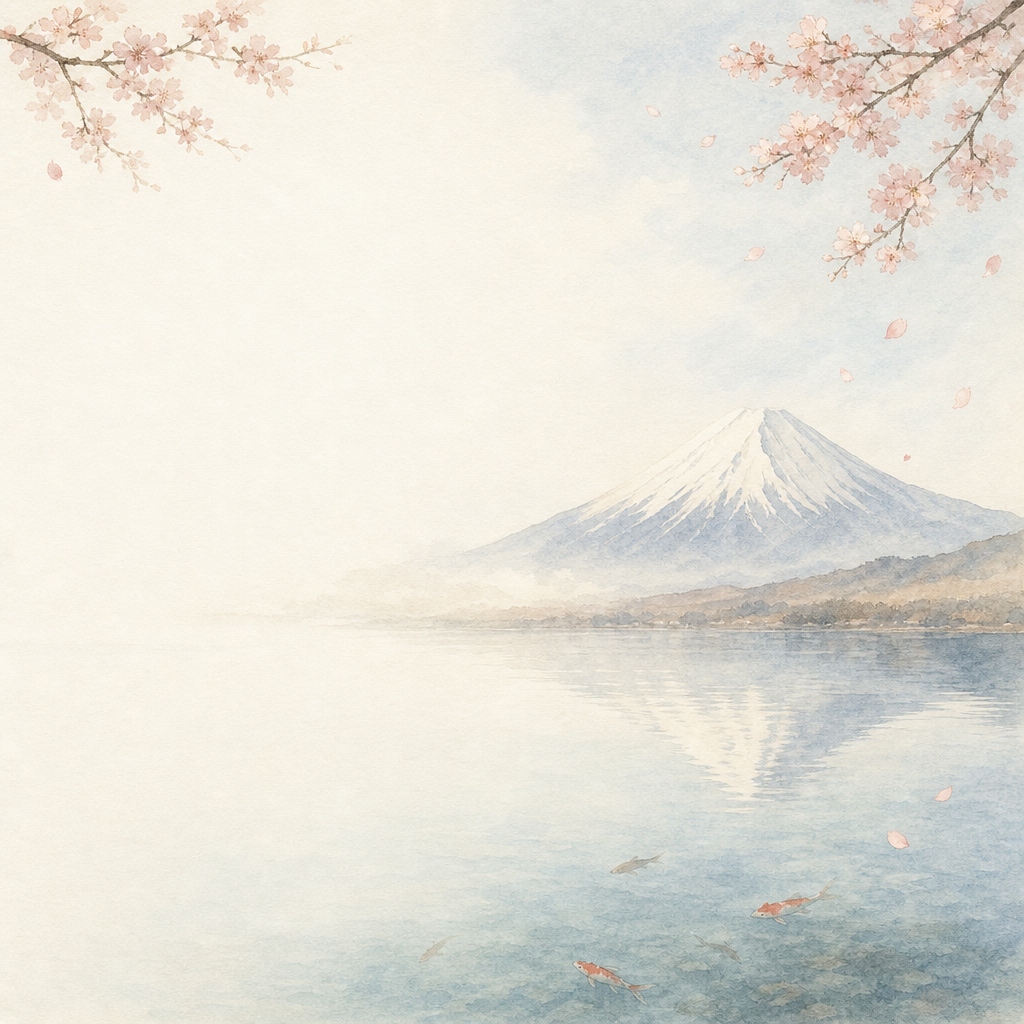
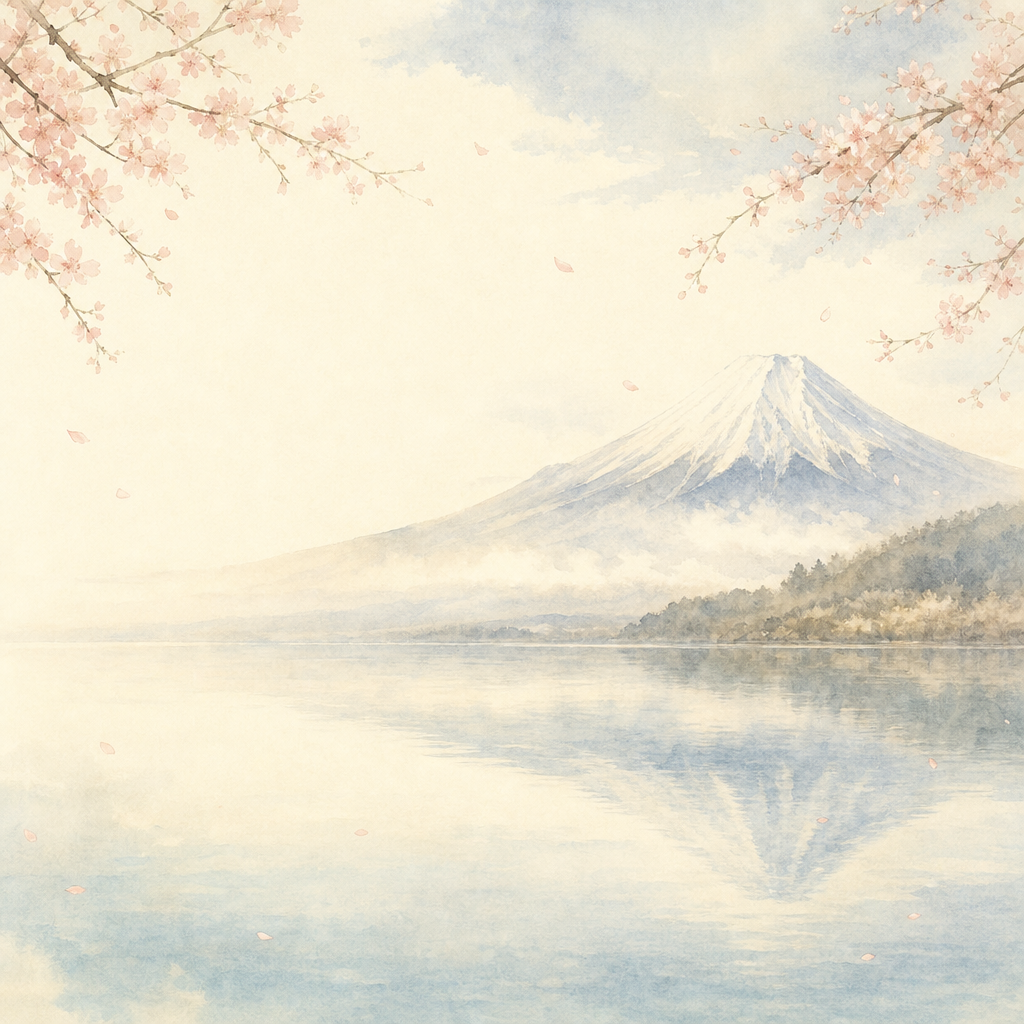
Regenerate no-fish Fuji background and animate petals, ripples, swan sprite

diff --git a/assets/scene-effects.js b/assets/scene-effects.js
@@ -1,8 +1,8 @@
 /* ============================================================
-   Subtle Fuji/Yamanakako scene effects
-   - single cherry blossom petals drifting down
-   - lake ripples expanding on the right/lower half
-   - a small watercolor-like swan swimming slowly
+   Fuji/Yamanakako scene effects
+   - single cherry blossom petals drift down
+   - petals create small ripples when they touch the lake
+   - watercolor swan sprite swims slowly across the lake
    ============================================================ */
 
 const canvas = document.getElementById('effects');
@@ -10,6 +10,9 @@ const canvas = document.getElementById('effects');
 if (canvas) {
   const ctx = canvas.getContext('2d');
   const DPR = Math.min(2, window.devicePixelRatio || 1);
+  const swanImg = new Image();
+  swanImg.src = '/assets/img/swan-sprite.png';
+
   let W = 0;
   let H = 0;
 
@@ -30,32 +33,44 @@ if (canvas) {
     return min + Math.random() * (max - min);
   }
 
+  function lakeY(x) {
+    return H * 0.60 + Math.sin(x * 0.006) * 6;
+  }
+
   class Petal {
     constructor(initial = false) {
       this.reset(initial);
     }
 
     reset(initial = false) {
-      this.x = rand(W * 0.18, W + 80);
-      this.y = initial ? rand(-40, H * 0.85) : rand(-120, -20);
-      this.size = rand(7, 13);
-      this.vy = rand(0.18, 0.42);
-      this.vx = rand(-0.18, 0.08);
+      this.x = rand(W * 0.08, W + 90);
+      this.y = initial ? rand(-40, H * 0.55) : rand(-140, -20);
+      this.size = rand(7, 12);
+      this.vy = rand(0.18, 0.38);
+      this.vx = rand(-0.20, 0.08);
       this.angle = rand(0, Math.PI * 2);
-      this.spin = rand(-0.012, 0.012);
-      this.swayAmp = rand(14, 36);
-      this.swayFreq = rand(0.0009, 0.0018);
+      this.spin = rand(-0.011, 0.011);
+      this.swayAmp = rand(14, 38);
+      this.swayFreq = rand(0.0009, 0.0017);
       this.phase = rand(0, Math.PI * 2);
-      this.alpha = rand(0.35, 0.72);
-      this.tint = Math.random() < 0.7 ? '#f3aeba' : '#fff0ea';
-      this.narrow = rand(0.72, 1.05);
-      this.curve = rand(0.85, 1.2);
+      this.alpha = rand(0.34, 0.66);
+      this.tint = Math.random() < 0.72 ? '#f3aeba' : '#fff0ea';
+      this.narrow = rand(0.72, 1.08);
+      this.curve = rand(0.86, 1.22);
     }
 
     update(t) {
       this.x += this.vx + Math.sin(t * this.swayFreq + this.phase) * 0.18;
       this.y += this.vy;
       this.angle += this.spin + 0.004 * Math.sin(t * 0.0012 + this.phase);
+
+      const waterLine = lakeY(this.x);
+      if (this.y >= waterLine && this.x > W * 0.12 && this.x < W + 40) {
+        ripples.push(new Ripple(this.x, waterLine + rand(-2, 3), rand(20, 55), 0.16));
+        this.reset(false);
+        return;
+      }
+
       if (this.y > H + 40 || this.x < -80 || this.x > W + 120) this.reset(false);
     }
 
@@ -98,13 +113,14 @@ if (canvas) {
   }
 
   class Ripple {
-    constructor(x, y, maxR = rand(28, 82)) {
+    constructor(x, y, maxR = rand(28, 82), alpha = 0.18) {
       this.x = x;
       this.y = y;
       this.r = 3;
       this.maxR = maxR;
       this.life = 0;
-      this.maxLife = rand(2.8, 4.8);
+      this.maxLife = rand(2.6, 4.4);
+      this.alpha = alpha;
     }
 
     update(dt) {
@@ -115,83 +131,48 @@ if (canvas) {
 
     draw(ctx) {
       const a = Math.max(0, 1 - this.life / this.maxLife);
-      ctx.strokeStyle = `rgba(62, 116, 132, ${0.18 * a})`;
+      ctx.strokeStyle = `rgba(62, 116, 132, ${this.alpha * a})`;
       ctx.lineWidth = 1;
       ctx.beginPath();
-      ctx.ellipse(this.x, this.y, this.r, this.r * 0.24, 0, 0, Math.PI * 2);
+      ctx.ellipse(this.x, this.y, this.r, this.r * 0.23, 0, 0, Math.PI * 2);
       ctx.stroke();
     }
   }
 
-  const petals = Array.from({ length: 12 }, () => new Petal(true));
+  const petals = Array.from({ length: 14 }, () => new Petal(true));
   const ripples = [];
   let rippleTimer = 0;
 
   function swanPosition(t) {
-    const loop = (t * 0.000035) % 1;
-    const x = W * 0.88 - loop * W * 0.34;
-    const y = H * 0.70 + Math.sin(t * 0.0009) * 7;
-    return { x, y, loop };
+    const loop = (t * 0.000032) % 1;
+    return {
+      x: W * 1.02 - loop * W * 0.56,
+      y: H * 0.71 + Math.sin(t * 0.0008) * 6,
+    };
   }
 
   function drawSwan(t) {
-    const { x, y, loop } = swanPosition(t);
-    const dir = -1;
-    const s = Math.max(0.55, Math.min(0.86, W / 1900));
-    const bob = Math.sin(t * 0.002) * 1.6;
+    if (!swanImg.complete || swanImg.naturalWidth === 0) return;
+
+    const { x, y } = swanPosition(t);
+    const width = Math.max(120, Math.min(185, W * 0.12));
+    const height = width * (swanImg.naturalHeight / swanImg.naturalWidth);
+    const bob = Math.sin(t * 0.0018) * 2;
 
     ctx.save();
-    ctx.translate(x, y + bob);
-    ctx.scale(dir * s, s);
-    ctx.globalAlpha = 0.78;
-
-    ctx.fillStyle = 'rgba(255, 252, 246, 0.78)';
-    ctx.beginPath();
-    ctx.ellipse(0, 0, 46, 16, -0.04, 0, Math.PI * 2);
-    ctx.fill();
-
-    ctx.strokeStyle = 'rgba(255, 252, 246, 0.82)';
-    ctx.lineWidth = 8;
-    ctx.lineCap = 'round';
-    ctx.beginPath();
-    ctx.moveTo(28, -7);
-    ctx.bezierCurveTo(34, -34, 54, -36, 50, -13);
-    ctx.stroke();
-
-    ctx.fillStyle = 'rgba(255, 252, 246, 0.86)';
-    ctx.beginPath();
-    ctx.arc(50, -12, 6.5, 0, Math.PI * 2);
-    ctx.fill();
-
-    ctx.fillStyle = 'rgba(198, 121, 55, 0.70)';
-    ctx.beginPath();
-    ctx.moveTo(56, -12);
-    ctx.lineTo(68, -9);
-    ctx.lineTo(56, -6);
-    ctx.closePath();
-    ctx.fill();
-
-    ctx.strokeStyle = 'rgba(180, 150, 120, 0.18)';
-    ctx.lineWidth = 1.2;
-    ctx.beginPath();
-    ctx.moveTo(-24, -5);
-    ctx.bezierCurveTo(-4, -14, 20, -12, 34, -4);
-    ctx.stroke();
-
+    ctx.globalAlpha = 0.76;
+    ctx.drawImage(swanImg, x - width / 2, y - height * 0.82 + bob, width, height);
     ctx.restore();
 
     ctx.save();
-    ctx.translate(x, y + 24 + bob * 0.5);
-    ctx.scale(dir * s, -s * 0.35);
-    ctx.globalAlpha = 0.14;
-    ctx.fillStyle = 'rgba(65, 106, 120, 0.45)';
-    ctx.beginPath();
-    ctx.ellipse(0, 0, 46, 16, -0.04, 0, Math.PI * 2);
-    ctx.fill();
+    ctx.globalAlpha = 0.11;
+    ctx.translate(x, y + height * 0.15 + bob * 0.4);
+    ctx.scale(1, -0.28);
+    ctx.drawImage(swanImg, -width / 2, -height * 0.15, width, height);
     ctx.restore();
 
-    if (loop > 0.02 && Math.random() < 0.018) {
-      ripples.push(new Ripple(x + 35, y + 8, rand(35, 80)));
+    if (Math.random() < 0.018) {
+      ripples.push(new Ripple(x + width * 0.25, y + 4, rand(35, 85), 0.13));
     }
   }
 
@@ -210,9 +191,9 @@ if (canvas) {
     }
 
     rippleTimer += dt;
-    if (rippleTimer > 1.7) {
+    if (rippleTimer > 1.9) {
       rippleTimer = 0;
-      ripples.push(new Ripple(rand(W * 0.54, W * 0.96), rand(H * 0.58, H * 0.84)));
+      ripples.push(new Ripple(rand(W * 0.38, W * 0.96), rand(H * 0.61, H * 0.83), rand(34, 90), 0.11));
     }
 
     for (let i = ripples.length - 1; i >= 0; i--) {

diff --git a/assets/style.css b/assets/style.css
@@ -41,9 +41,9 @@ body {
   inset: 0;
   z-index: 0;
   pointer-events: none;
-  background-image: linear-gradient(90deg, rgba(255,254,251,0.72) 0%, rgba(255,254,251,0.32) 42%, rgba(255,254,251,0.02) 100%), url('/assets/img/fuji-yamanakako-bg.png');
-  background-size: auto 100%;
-  background-position: center right;
+  background-image: linear-gradient(90deg, rgba(255,254,251,0.68) 0%, rgba(255,254,251,0.22) 42%, rgba(255,254,251,0.02) 100%), url('/assets/img/fuji-yamanakako-bg.png');
+  background-size: cover;
+  background-position: center center;
   background-repeat: no-repeat;
   opacity: 1;
   transform-origin: center right;
